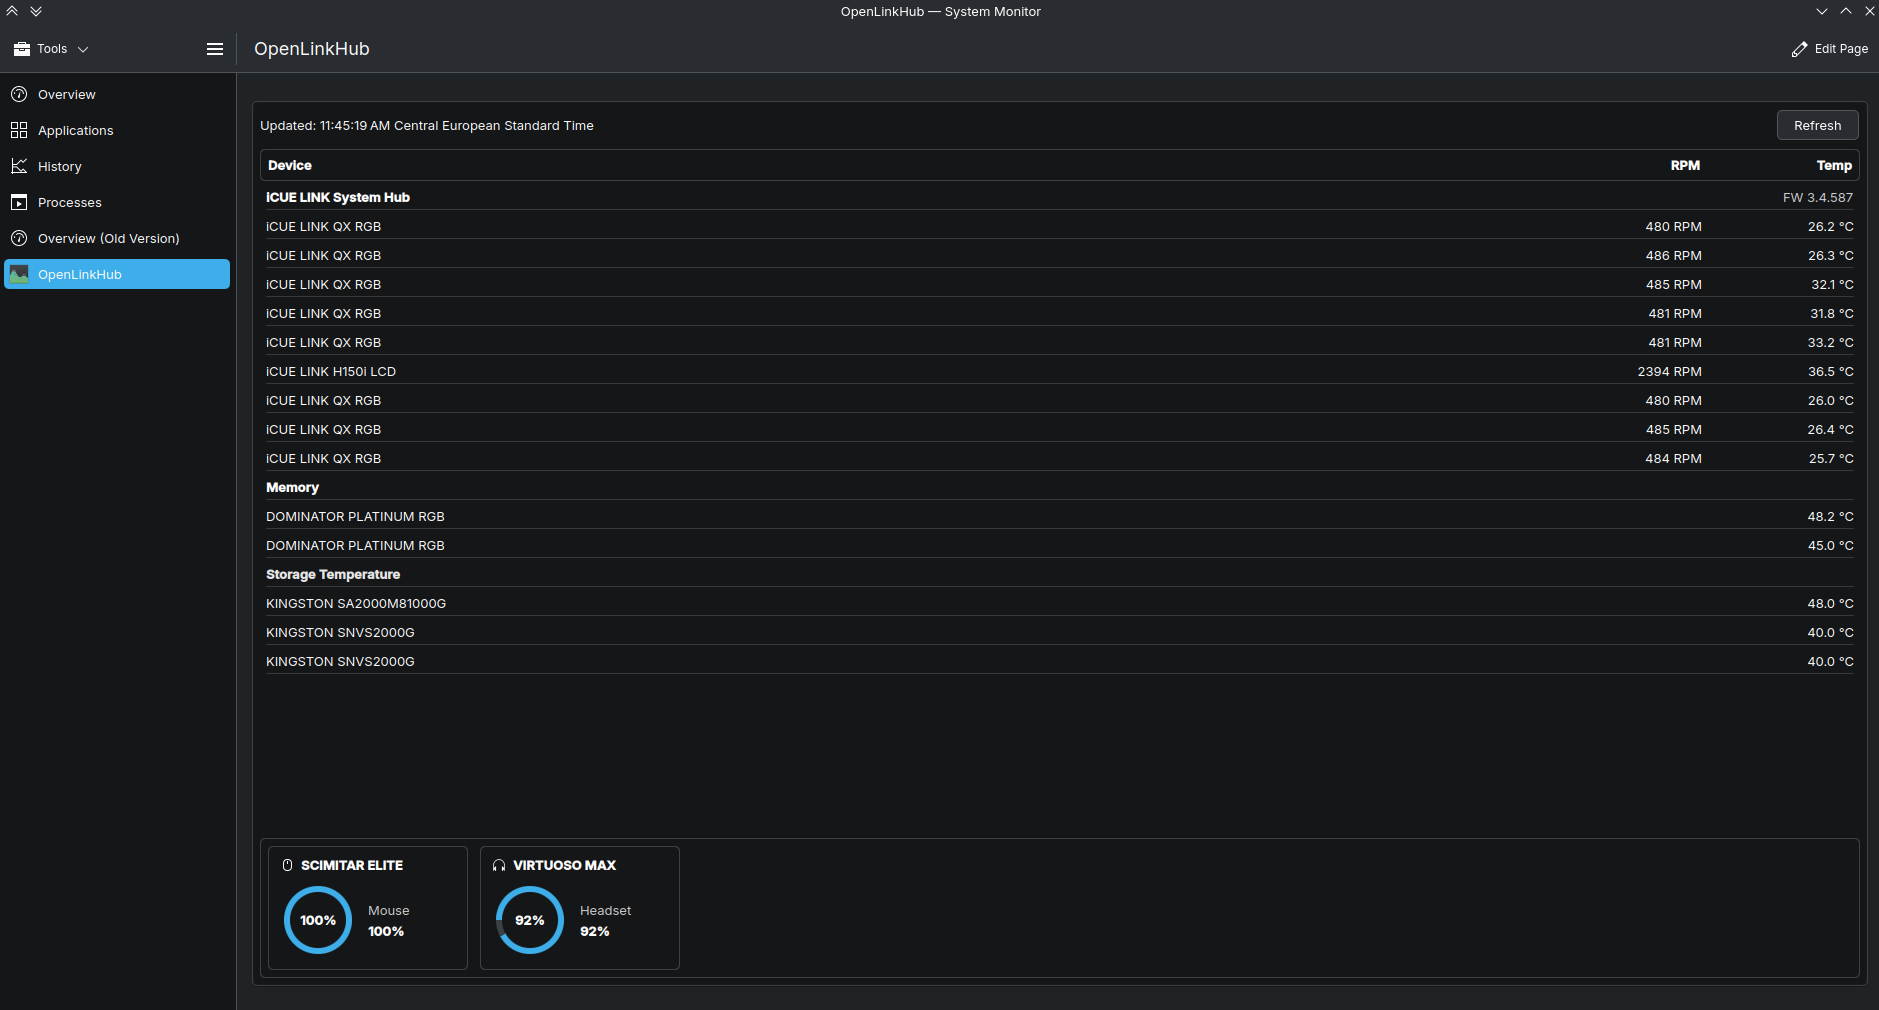
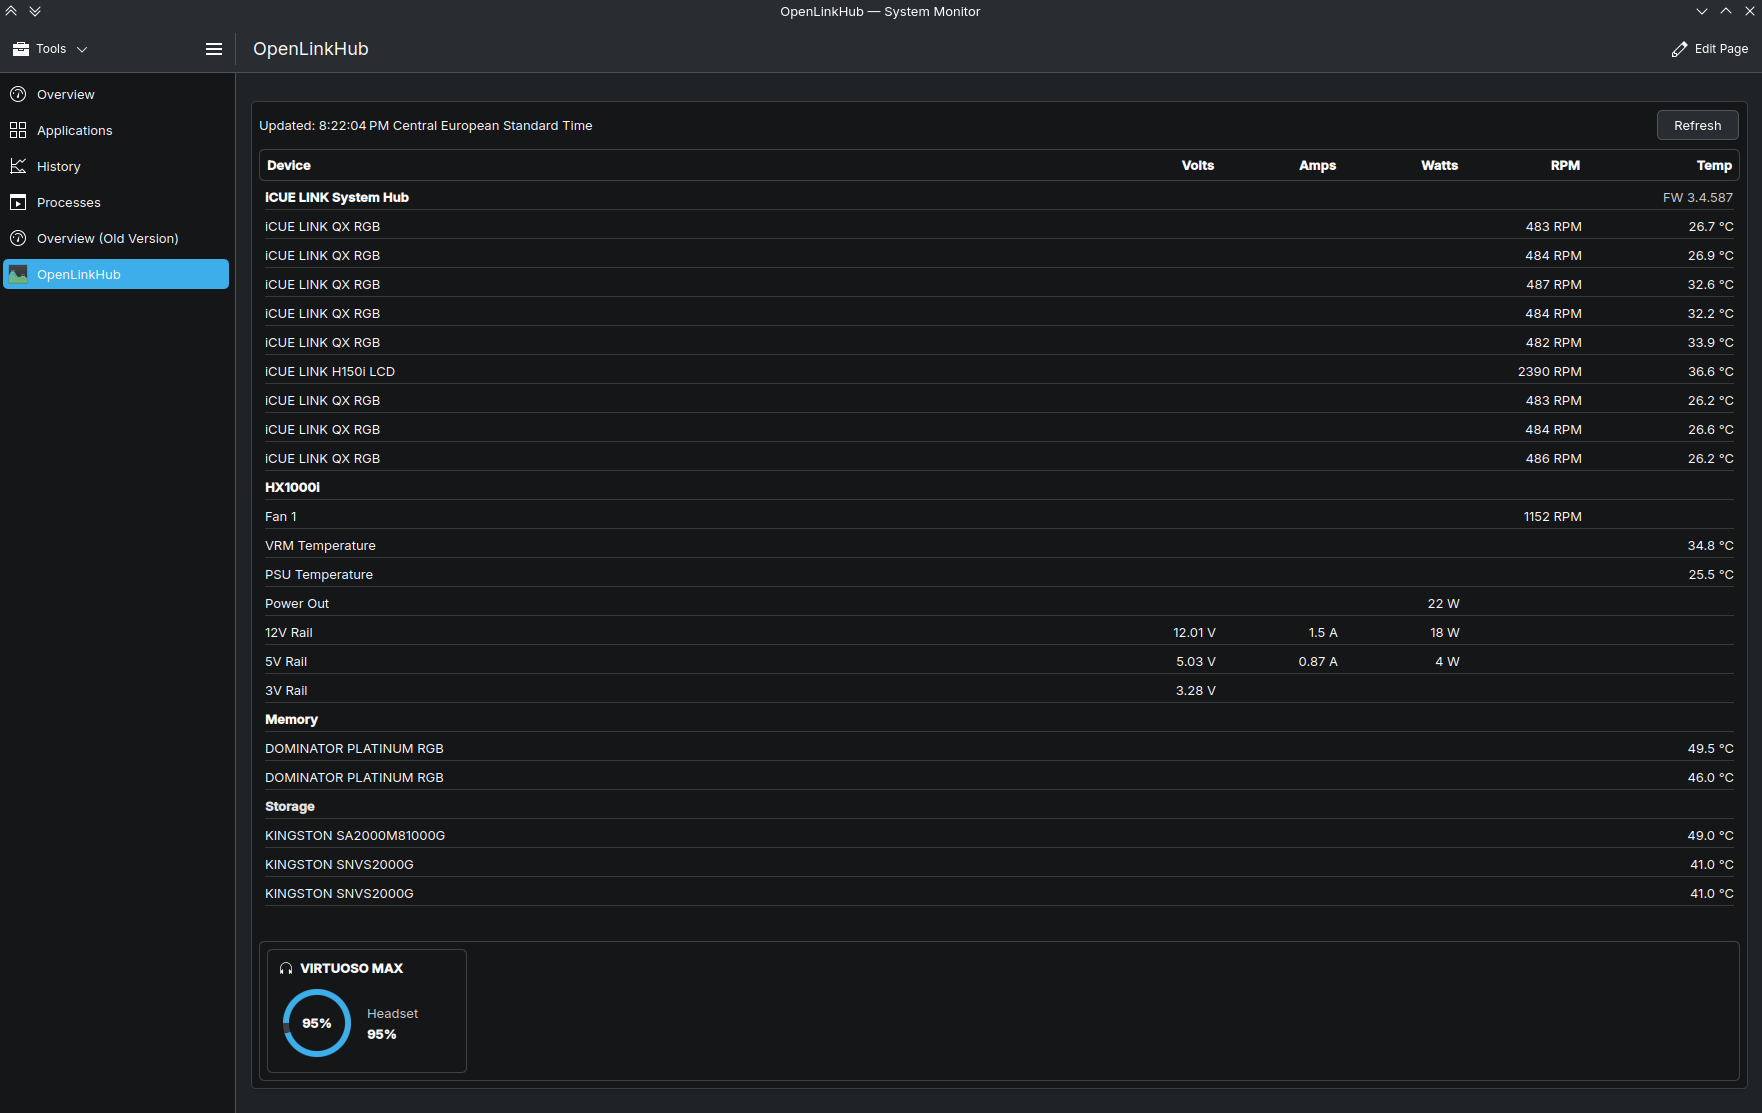
include psu

diff --git a/org.openlinkhub.openlinkhub/contents/ui/FullRepresentation.qml b/org.openlinkhub.openlinkhub/contents/ui/FullRepresentation.qml
@@ -102,6 +102,9 @@ Faces.SensorFace {
                         for (const key in childMap) {
                             const ch = childMap[key]
                             if (!ch) continue
+                                if (typeof ch.deviceId === "string" && ch.deviceId === "Psu-0") {
+                                    continue
+                                }
 
                                 children.push({
                                     type: "device",
@@ -109,7 +112,10 @@ Faces.SensorFace {
                                     channelId: (ch.channelId !== undefined && ch.channelId !== null) ? s(ch.channelId) : s(key),
                                               name: s(ch.name),
                                               rpm: (ch.rpm === undefined || ch.rpm === null) ? "" : s(ch.rpm),
-                                              temp: formatTemp(ch)
+                                              temp: formatTemp(ch),
+                                              volts: (ch.volts === undefined || ch.volts === null) ? "" : s(ch.volts),
+                                              amps: (ch.amps === undefined || ch.amps === null) ? "" : s(ch.amps),
+                                              watts: (ch.watts === undefined || ch.watts === null) ? "" : s(ch.watts)
                                 })
                         }
 
@@ -240,7 +246,7 @@ Faces.SensorFace {
         for (let i = 0; i < flatRows.length; i++) out.push(flatRows[i])
 
             if (showStorage && storageRows.length > 0) {
-                out.push({ type: "section", title: "Storage Temperature" })
+                out.push({ type: "section", title: "Storage" })
                 for (let i = 0; i < storageRows.length; i++) out.push(storageRows[i])
             }
 
@@ -305,6 +311,9 @@ Faces.SensorFace {
                 spacing: 12
 
                 Label { text: "Device"; font.bold: true; Layout.fillWidth: true }
+                Label { text: "Volts"; font.bold: true; Layout.preferredWidth: 110; horizontalAlignment: Text.AlignRight }
+                Label { text: "Amps"; font.bold: true; Layout.preferredWidth: 110; horizontalAlignment: Text.AlignRight }
+                Label { text: "Watts"; font.bold: true; Layout.preferredWidth: 110; horizontalAlignment: Text.AlignRight }
                 Label { text: "RPM"; font.bold: true; Layout.preferredWidth: 110; horizontalAlignment: Text.AlignRight }
                 Label { text: "Temp"; font.bold: true; Layout.preferredWidth: 140; horizontalAlignment: Text.AlignRight }
             }
@@ -368,6 +377,21 @@ Faces.SensorFace {
                             text: modelData.name
                             Layout.fillWidth: true
                             elide: Text.ElideRight
+                        }
+                        Label {
+                            text: (Number(modelData.volts) > 0) ? (modelData.volts + " V") : ""
+                            Layout.preferredWidth: 110
+                            horizontalAlignment: Text.AlignRight
+                        }
+                        Label {
+                            text: (Number(modelData.amps) > 0) ? (modelData.amps + " A") : ""
+                            Layout.preferredWidth: 110
+                            horizontalAlignment: Text.AlignRight
+                        }
+                        Label {
+                            text: (Number(modelData.watts) > 0) ? (modelData.watts + " W") : ""
+                            Layout.preferredWidth: 110
+                            horizontalAlignment: Text.AlignRight
                         }
                         Label {
                             text: (Number(modelData.rpm) > 0) ? (modelData.rpm + " RPM") : ""
